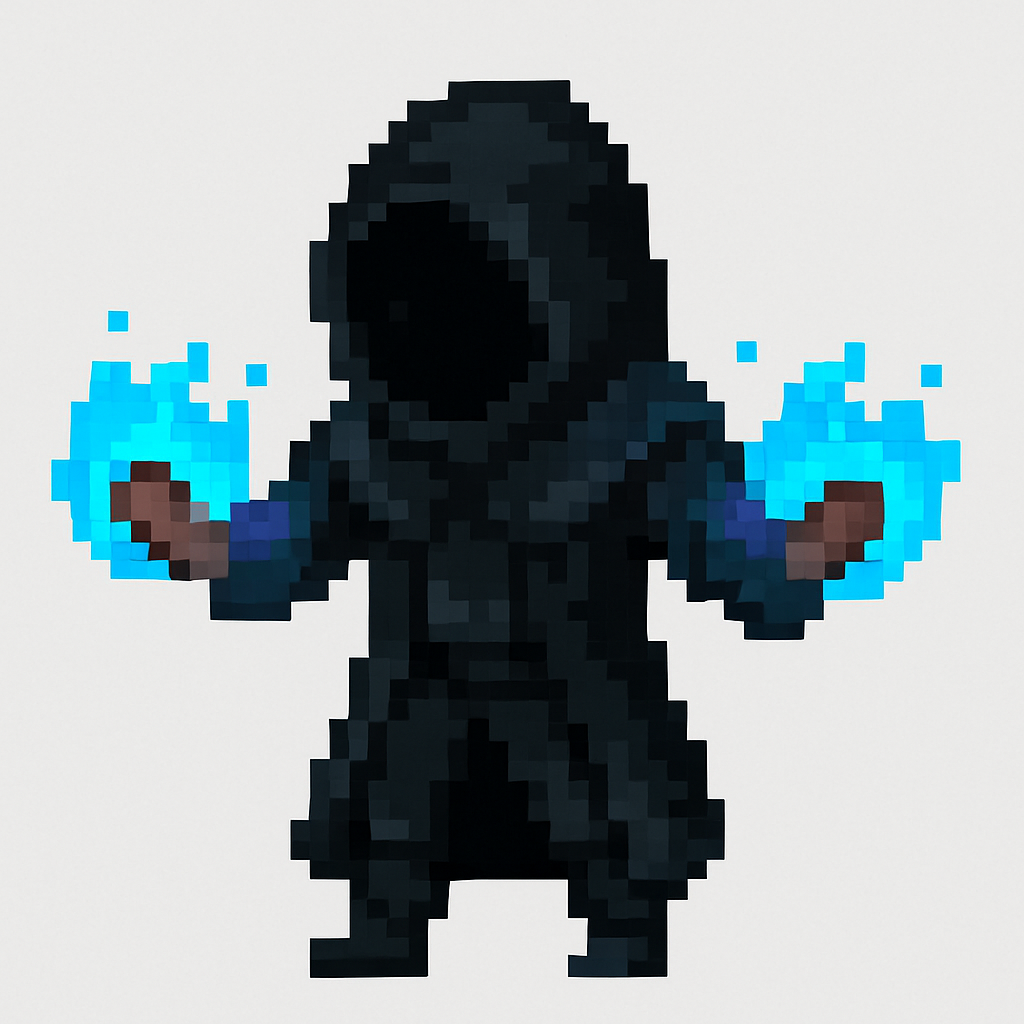
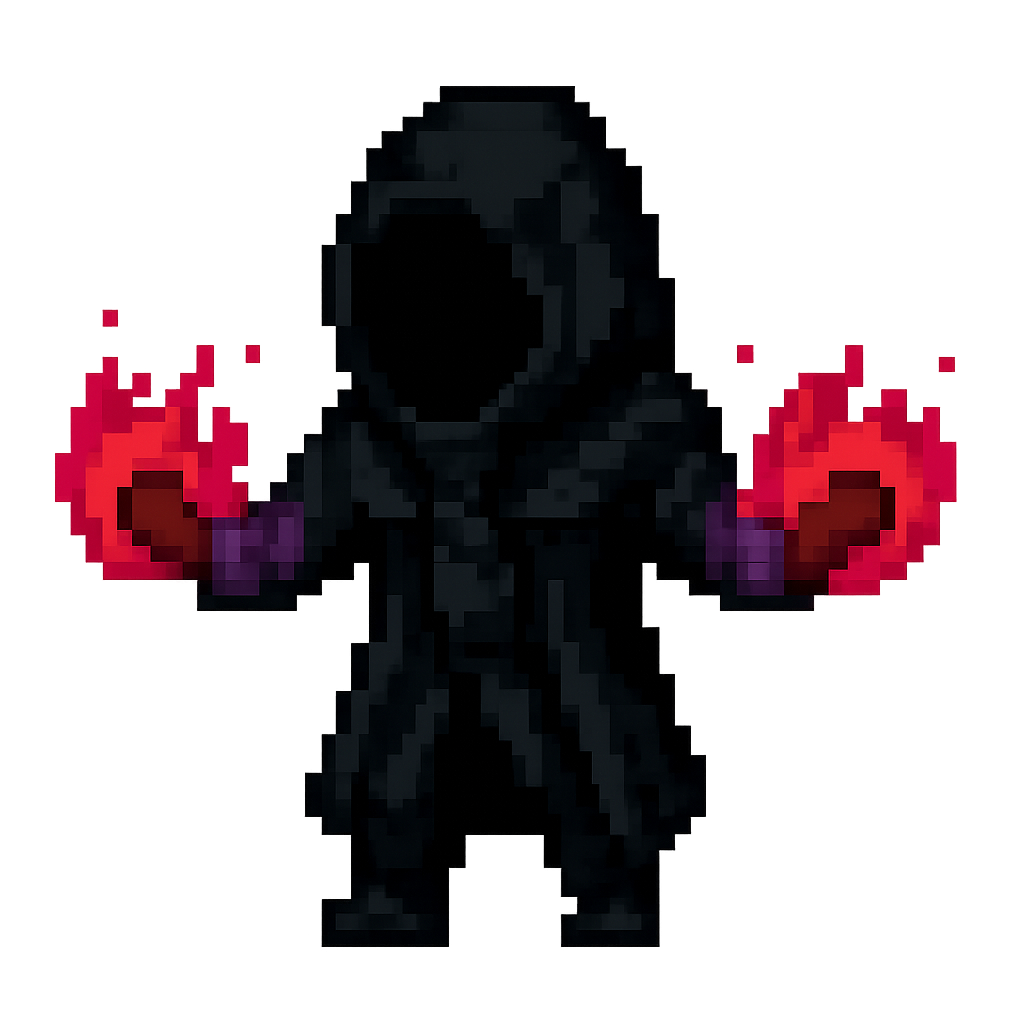
Textur fix, schwert fix

diff --git a/Spiel.py b/Spiel.py
@@ -15,24 +15,25 @@ player_right = pygame.image.load("player_right.png").convert_alpha()
 player_left = pygame.image.load("player_left.png").convert_alpha()
 sword_img = pygame.image.load("sword.png").convert_alpha()
 
-# Resize if needed
+# Resize
 PLAYER_SIZE = (96, 96)
 SWORD_SIZE = (96, 128)
 player_right = pygame.transform.scale(player_right, PLAYER_SIZE)
 player_left = pygame.transform.scale(player_left, PLAYER_SIZE)
 sword_img = pygame.transform.scale(sword_img, SWORD_SIZE)
 
-# Player settings
+# Player state
 player_pos = [WIDTH // 2, HEIGHT // 2]
 player_speed = 6
 facing = "right"
 
-# Sword settings
+# Sword swing state
 swinging = False
 swing_duration = 400  # ms
 swing_start_time = 0
 max_angle = 120
 
+# Score and font
 score = 0
 font = pygame.font.SysFont(None, 36)
 
@@ -64,11 +65,8 @@ def move_enemies():
             enemies.remove(e)
 
 def draw_sword(angle):
-    # Sword pivot point is offset from player
     offset_x = 60 if facing == "right" else -60
     pivot = (player_pos[0] + PLAYER_SIZE[0] // 2 + offset_x, player_pos[1] + PLAYER_SIZE[1] // 2)
-
-    # Create rotated sword
     rotated_sword = pygame.transform.rotate(sword_img, -angle if facing == "right" else angle)
     sword_rect = rotated_sword.get_rect(center=pivot)
     screen.blit(rotated_sword, sword_rect.topleft)
@@ -86,6 +84,7 @@ def show_score():
     text = font.render(f"Punkte: {score}", True, (0, 0, 0))
     screen.blit(text, (10, 10))
 
+# Game loop
 running = True
 while running:
     dt = clock.tick(60)
@@ -111,17 +110,15 @@ while running:
         swinging = True
         swing_start_time = now
 
-    # Animate sword
     angle = 0
     if swinging:
         elapsed = now - swing_start_time
         if elapsed < swing_duration:
             progress = elapsed / swing_duration
-            angle = max_angle * math.sin(progress * math.pi)  # smooth swing curve
+            angle = max_angle * math.sin(progress * math.pi)  # smooth curve
         else:
             swinging = False
 
-    # Game logic
     if pygame.time.get_ticks() % 1000 < 20:
         spawn_enemy()
 
@@ -129,7 +126,11 @@ while running:
     draw_enemies()
     draw_player()
     sword_rect = draw_sword(angle)
-    check_collision(sword_rect)
+    
+    # ✅ Only allow hits during swing
+    if swinging:
+        check_collision(sword_rect)
+
     show_score()
     pygame.display.flip()
 
